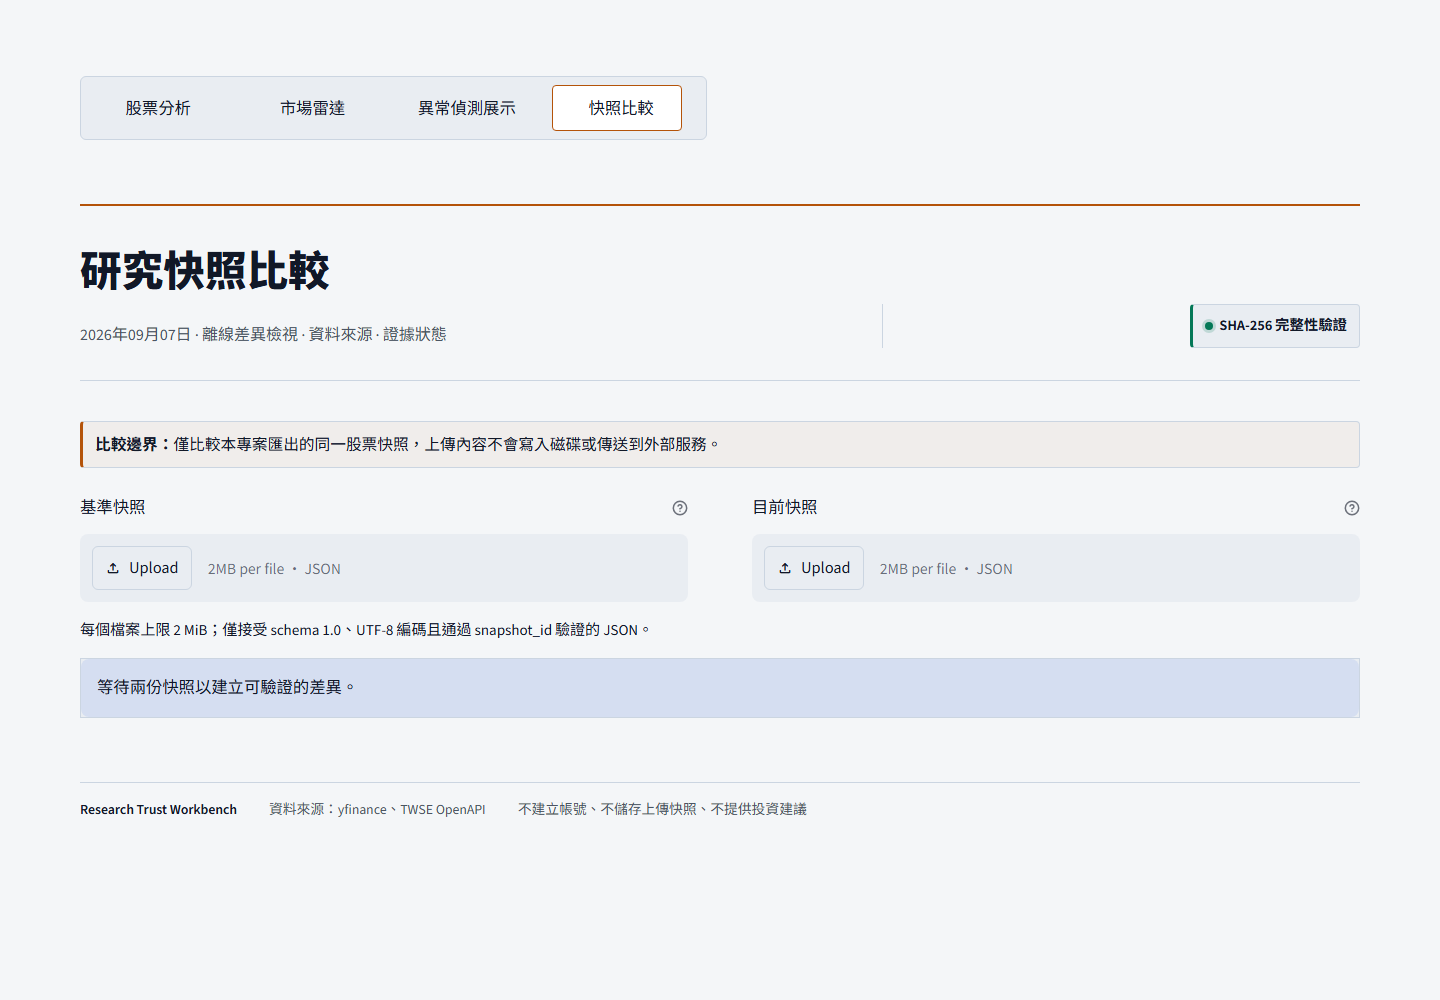
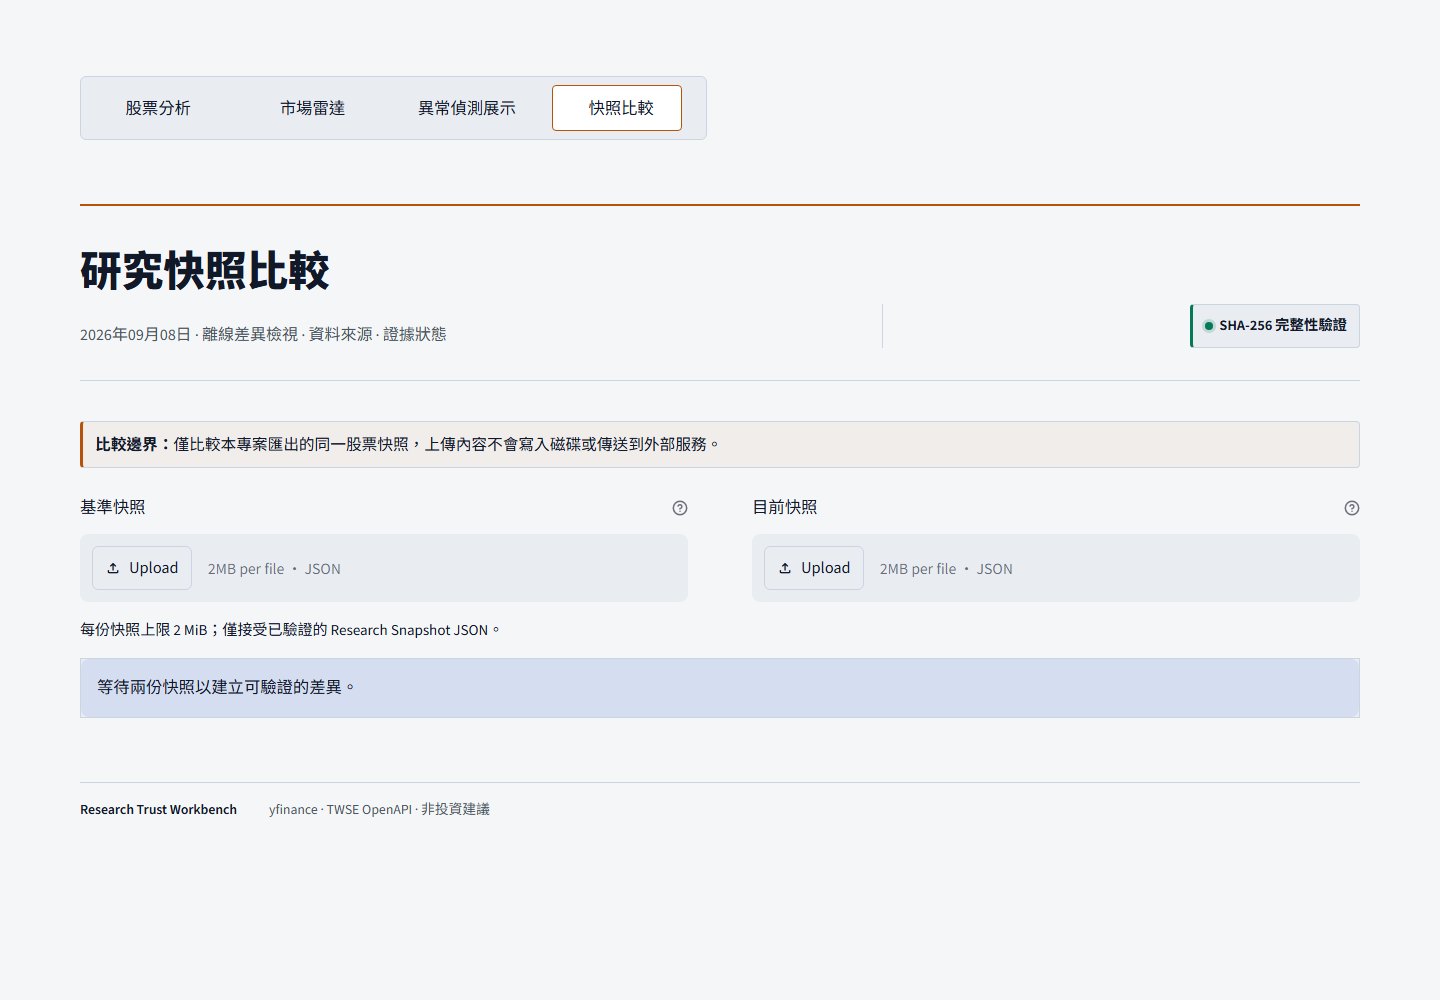
ui: reduce research dashboard copy and add EDA notebook

diff --git a/app.py b/app.py
@@ -329,7 +329,6 @@ def render_peer_comparison(cards: list[dict], selected_symbol: str, industry: st
     if not cards:
         st.info("目前沒有足夠的同類股票資料可比較。")
         return
-    st.caption(f"比較範圍：{industry}。表格用來快速比較同類股票的當日變化、量能與 52 週位置。")
     selected_yf_symbol = to_yfinance_symbol(selected_symbol)
     rows = []
     for card in cards:
@@ -2652,14 +2651,10 @@ def render_market_cards(theme: dict, cards: list[dict] | None = None) -> None:
 
 
 def render_popular_stocks(cards: list[dict], industry: str = "全部") -> None:
-    st.header("熱門股")
+    st.header("熱門股", help="市場代表標的，依最新可用資料更新。")
     if not cards:
         st.info("目前沒有可顯示的熱門股資料，請稍後重試。")
         return
-    if industry == "全部":
-        st.caption("市場代表標的，依最新可用資料更新。")
-    else:
-        st.caption(f"目前顯示「{industry}」類別中的熱門追蹤標的。")
     columns = st.columns(2, gap="large")
     for index, card in enumerate(cards):
         css_class = change_class(card["change_pct"])
@@ -3250,7 +3245,6 @@ def render_stock_detail(
     render_performance_cards(analysis)
 
     st.markdown('<h3 class="stock-section-title">技術圖表</h3>', unsafe_allow_html=True)
-    st.caption("K 線固定顯示；均線、布林通道與副圖可在左側「技術指標」切換。")
     st.plotly_chart(
         make_price_chart(indicators, theme, f"{stock_label} 價格與指標", selected_indicators),
         width="stretch",
@@ -3328,13 +3322,13 @@ def render_data_service_notice(state: dict) -> None:
     elif mode == "unavailable":
         st.error(message)
     else:
-        st.caption(message)
+        message = ""
 
     status_column, action_column = st.columns([5, 1], gap="medium", vertical_alignment="center")
     with status_column:
         as_of_date = state.get("as_of_date")
         if as_of_date:
-            st.caption(f"最新可用市場資料日：{as_of_date} · 行情快取最長 15 分鐘")
+            st.caption(f"資料日 {as_of_date} · 快取 15 分鐘")
         else:
             st.caption("目前沒有可確認的市場資料日期。")
         provider_items = []
@@ -3350,16 +3344,23 @@ def render_data_service_notice(state: dict) -> None:
                 f'{provider.get("provider", "來源")}：{status_label}'
                 f'（{provider.get("detail", "")}）'
             )
+        detail_lines = []
+        if message:
+            detail_lines.append(message)
         if provider_items:
-            st.caption("資料來源健康 · " + " · ".join(provider_items))
+            detail_lines.append("資料來源健康 · " + " · ".join(provider_items))
         quality = state.get("data_quality", {})
         if quality.get("card_count"):
             counts = quality.get("source_counts", {})
             source_summary = "、".join(f"{name} {count} 張" for name, count in counts.items())
-            st.caption(
-                f"資料品質摘要 · 已檢查 {quality['card_count']} 張行情卡"
-                f"（{source_summary}）· 可辨識最新 LIVE 資料日：{quality.get('latest_live_date') or '無'}"
+            detail_lines.append(
+                f"已檢查 {quality['card_count']} 張行情卡（{source_summary}）；"
+                f"最新 LIVE 資料日：{quality.get('latest_live_date') or '無'}"
             )
+        if detail_lines:
+            with st.expander("資料來源詳情", expanded=False):
+                for line in detail_lines:
+                    st.caption(line)
     with action_column:
         if st.button(
             "重新取得資料",
@@ -3379,8 +3380,7 @@ def render_product_footer() -> None:
         """
         <footer class="product-footer">
             <strong>Research Trust Workbench</strong>
-            <span>資料來源：yfinance、TWSE OpenAPI</span>
-            <span>不建立帳號、不儲存上傳快照、不提供投資建議</span>
+            <span>yfinance · TWSE OpenAPI · 非投資建議</span>
         </footer>
         """,
         unsafe_allow_html=True,
@@ -3477,7 +3477,7 @@ def render_stock_analysis_page(theme: dict) -> None:
         if active_custom_symbol:
             st.caption(f"目前使用自訂代號：{selected_stock_label}")
         else:
-            st.caption(f"可選股票清單：{len(stock_universe)} 檔；資料源 {company_source}，亦可輸入合法 yfinance 代號。")
+            st.caption(f"{len(stock_universe)} 檔可選 · {company_source}")
 
     with st.spinner("正在載入 yfinance 行情與產業比較資料..."):
         popular_symbols = get_popular_symbols(stock_universe, selected_industry)
@@ -3512,10 +3512,6 @@ def render_stock_analysis_page(theme: dict) -> None:
         '<div class="notice"><b>免責聲明：</b>本專案僅供資料分析與技術展示，不構成任何投資建議。</div>',
         unsafe_allow_html=True,
     )
-    st.markdown(
-        "市場狀態、熱門標的、技術指標與同業比較。"
-    )
-    st.caption(f"TWSE 上市公司清單：{company_source}；行情資料逐卡顯示 LIVE、DEMO 或快取狀態。")
     render_market_cards(theme, market_cards)
     render_popular_stocks(popular_cards, selected_industry)
     with st.spinner(f"正在載入 {selected_stock_label} 個股詳情..."):
@@ -3560,10 +3556,7 @@ def render_snapshot_comparison_page(theme: dict) -> None:
             key="current_snapshot_upload",
             help="\u8f03\u65b0\u7684 Research Snapshot JSON\u3002",
         )
-    st.caption(
-        "\u6bcf\u500b\u6a94\u6848\u4e0a\u9650 2 MiB\uff1b"
-        "\u50c5\u63a5\u53d7 schema 1.0\u3001UTF-8 \u7de8\u78bc\u4e14\u901a\u904e snapshot_id \u9a57\u8b49\u7684 JSON\u3002"
-    )
+    st.caption("每份快照上限 2 MiB；僅接受已驗證的 Research Snapshot JSON。")
 
     parsed_snapshots: dict[str, dict] = {}
     upload_errors = False
@@ -3713,10 +3706,6 @@ def render_anomaly_page(cfg: dict, theme: dict) -> None:
         "資料工程 · 特徵工程 · 異常標記流程",
         "本機分析資料",
     )
-    st.markdown(
-        '<div class="notice"><b>展示定位：</b>本頁獨立呈現原本的異常波動偵測流程，不混入股票分析頁。</div>',
-        unsafe_allow_html=True,
-    )
     with st.spinner("正在載入異常偵測資料..."):
         data, error = load_dashboard_data(cfg)
     if error:
@@ -3751,8 +3740,7 @@ def render_anomaly_page(cfg: dict, theme: dict) -> None:
         return
     kpis = build_kpis(filtered)
 
-    st.header("展示核心指標")
-    st.caption("以下 KPI 用來快速觀察選定股票在區間內的最新狀態、波動程度與異常事件數。")
+    st.header("核心指標")
     cols = st.columns(4)
     cols[0].metric("最新收盤價", kpis["latest_close"])
     cols[1].metric("近期波動率", kpis["recent_volatility"])
@@ -3762,7 +3750,6 @@ def render_anomaly_page(cfg: dict, theme: dict) -> None:
     left, right = st.columns([1.3, 1])
     with left:
         st.subheader("股價趨勢與異常事件")
-        st.caption("異常標記代表模型判定的異常波動日期，只表示資料行為異常，不代表投資訊號。")
         st.plotly_chart(
             line_with_anomalies(filtered, "close", "股價趨勢與異常事件", "收盤價", theme),
             width="stretch",
@@ -3770,7 +3757,6 @@ def render_anomaly_page(cfg: dict, theme: dict) -> None:
         )
     with right:
         st.subheader("20 日波動率")
-        st.caption("波動率用於觀察價格變動幅度是否擴大或收斂。")
         st.plotly_chart(
             line_with_anomalies(filtered, "volatility_20", "20 日波動率趨勢", "20 日波動率", theme),
             width="stretch",
@@ -3794,7 +3780,6 @@ def render_anomaly_page(cfg: dict, theme: dict) -> None:
     fx_fig.update_xaxes(title_text="日期", title_font=dict(color=theme["text"]))
     fx_fig.update_yaxes(title_text="匯率", title_font=dict(color=theme["text"]))
     st.header("匯率趨勢")
-    st.caption("匯率資料與股價資料依日期對齊，用於觀察外匯變動與市場波動的關聯。")
     if fx_filtered.empty:
         st.info("所選日期區間沒有匯率資料。")
     else:
@@ -3809,7 +3794,6 @@ def render_anomaly_page(cfg: dict, theme: dict) -> None:
         st.dataframe(chart_table.head(500), width="stretch", hide_index=True)
 
     st.header("異常波動日期列表")
-    st.caption("列表顯示模型標記的異常事件，欄位已轉為中文名稱以利閱讀。")
     anomalies = filtered[filtered["model_anomaly"] == 1].sort_values("date", ascending=False)
     visible_columns = ["date", "symbol", "close", "daily_return", "volume_zscore_20", "risk_score_baseline", "anomaly_score"]
     table = anomalies[visible_columns].copy()
